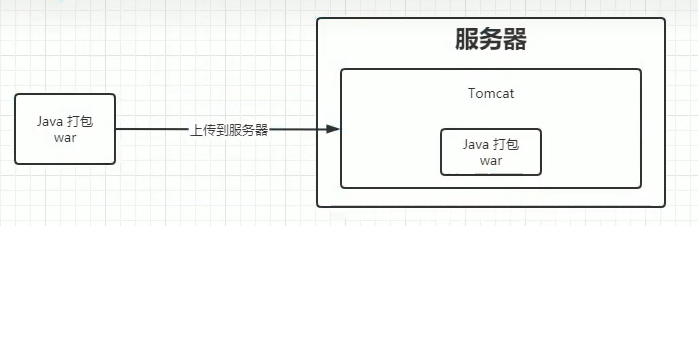
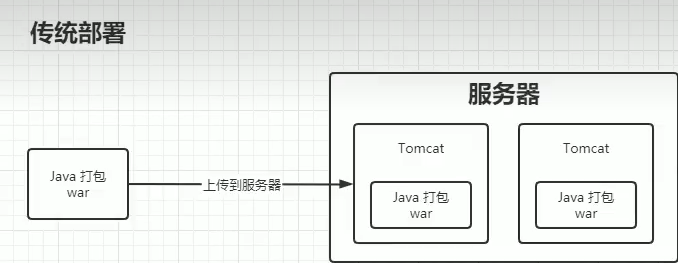
容器

diff --git a/容器相关/容器.md b/容器相关/容器.md
@@ -2,7 +2,7 @@
  * @Author: rooterShip
  * @Date: 2023-09-10 10:50:42
  * @LastEditors: rooterShip
- * @LastEditTime: 2023-09-10 11:04:02
+ * @LastEditTime: 2023-09-10 17:51:34
 -->
 - 容器
   - 容器是虚拟机技术的一种，旨在为运行的程序提供运行环境和依赖，个人理解：开一个容器就类似于新开了一台属于自己的服务器，可以随便乱造且不会影响宿主机。
@@ -18,5 +18,12 @@
 把这三个镜像全部放入容器中并运行即可。Dockerfile->docker build->docker run.
 - 部署方式
   - 传统部署
-    将java项目打包成war包上传到服务器
+    将java项目打包成war包直接上传到服务器，多个tomcat服务器环境不隔离
     ![传统部署](img/传统部署.png)
+  - 虚拟化部署
+    利用虚拟机，在服务器的操作系统内部新建一个或者多个虚拟机（可以理解为新机器，拥有自己的操作系统，然后在里面部署web服务器(tomcat)并上传war包。），占用资源过度。
+    ![虚拟化部署](img/虚拟化部署.png)
+  - 容器化部署
+    利用容器技术，多个容器共用宿主操作系统，但是在容器内依然能实现资源隔绝（文件系统，网络，CPU，内存，磁盘，进程，用户空间等）
+    ![容器化部署](img/容器化部署.png)
+    容器化部署相比较与传统部署与虚拟化部署方式而言，容器的生命周期大大缩短，容器变得极易被销毁重建，相对应产生的问题是，容器里面隔绝的资源（网络，硬盘等）也会被相应的修改，增加了这些资源的不稳定性，这对于容器内部部署的应用是具有风险的，为此，kubernetes（k8s)技术--容器管理技术，可以进行解决。
